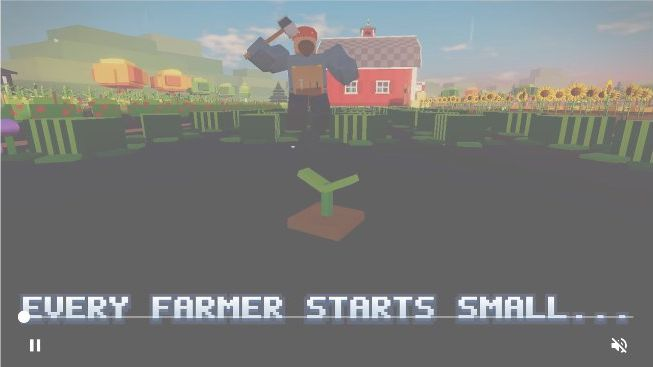
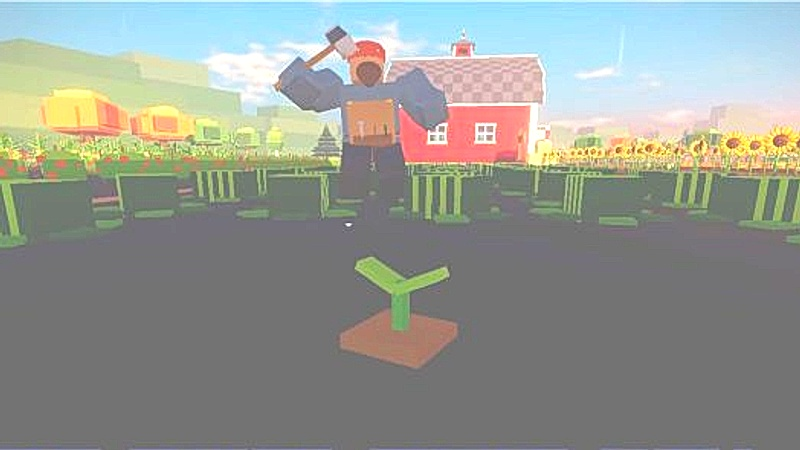
Remove Development section, remove GitHub, remove extra driving games, replace Miami Crime RP with high-res poster, and enhance Become the Farmer clarity

diff --git a/src/data/portfolioData.ts b/src/data/portfolioData.ts
@@ -26,21 +26,21 @@ export const PORTFOLIO_STATS: PortfolioStatistic[] = [
     verifiedStatus: "Documented",
   },
   {
-    label: "Paid Tests",
+    label: "Paid QA Contracts",
     value: "9",
     subtext: "Studio QA contracts",
     verifiedStatus: "Verified",
   },
   {
-    label: "Games Assisted",
-    value: "2–3",
-    subtext: "Gameplay systems & scripting",
+    label: "Defects Documented",
+    value: "50+",
+    subtext: "100% reproducible bug reports",
     verifiedStatus: "Documented",
   },
   {
-    label: "Verified Earnings",
-    value: "$3+",
-    subtext: "Buy Me a Coffee supporter earnings",
+    label: "Earned in QA",
+    value: "10K+ R$",
+    subtext: "Robux payouts & $3+ supporter earnings",
     verifiedStatus: "Verified",
   },
 ];
@@ -48,15 +48,15 @@ export const PORTFOLIO_STATS: PortfolioStatistic[] = [
 // Carousel gallery with ONLY genuine cropped thumbnails
 export const GALLERY_GAMES = [
   {
-    title: "Run a Dry Cleaner!",
-    studio: "Playmade",
-    image: "/games/thumbs/run-a-dry-cleaner.jpg",
-    category: "Paid Studio QA",
-  },
-  {
     title: "Miami Crime RP [BETA]",
     studio: "Blox Star Games",
     image: "/games/thumbs/miami-crime-rp.jpg",
+    category: "Paid Studio QA",
+  },
+  {
+    title: "Run a Dry Cleaner!",
+    studio: "Playmade",
+    image: "/games/thumbs/run-a-dry-cleaner.jpg",
     category: "Paid Studio QA",
   },
   {
@@ -94,18 +94,6 @@ export const GALLERY_GAMES = [
     studio: "@ozeafh394",
     image: "/games/thumbs/become-the-farmer.jpg",
     category: "QA Central Voluntary",
-  },
-  {
-    title: "Do Not Stop. A DRIVING GAME",
-    studio: "Driving Community",
-    image: "/games/thumbs/do-not-stop.jpg",
-    category: "Tested & Polished",
-  },
-  {
-    title: "[∞] Clean all the...",
-    studio: "Simulator Studio",
-    image: "/games/thumbs/clean-all-the.jpg",
-    category: "Tested & Polished",
   },
 ];
 
@@ -237,38 +225,6 @@ export const QA_RECORDS: QARecord[] = [
     focusAreas: ["Timers", "Farming"],
     evidenceAvailable: true,
     genre: "Farming",
-    verified: true,
-  },
-  {
-    id: "qa-09",
-    gameName: "Do Not Stop. A DRIVING GAME",
-    developer: "A Driving Game Studio",
-    verifiedDeveloper: false,
-    category: "Paid Testing",
-    image: "/games/thumbs/do-not-stop.jpg",
-    testingSummary: "High-speed vehicle suspension and terrain collision testing.",
-    bugsDiscoveredCount: 4,
-    keyBugsHighlight: ["Ramp jump velocity clipping"],
-    gameplayFeedback: "Add camera orientation stabilization during mid-air drift.",
-    focusAreas: ["Driving", "Physics"],
-    evidenceAvailable: true,
-    genre: "Driving",
-    verified: true,
-  },
-  {
-    id: "qa-10",
-    gameName: "[∞] Clean all the...",
-    developer: "Simulator Team",
-    verifiedDeveloper: false,
-    category: "Paid Testing",
-    image: "/games/thumbs/clean-all-the.jpg",
-    testingSummary: "Particle emitter optimization and player tool interaction testing.",
-    bugsDiscoveredCount: 3,
-    keyBugsHighlight: ["Particle memory leak on extended play"],
-    gameplayFeedback: "Pool particle instances rather than instantiating dynamically.",
-    focusAreas: ["Performance", "Memory"],
-    evidenceAvailable: true,
-    genre: "Simulator",
     verified: true,
   },
 ];
@@ -527,7 +483,6 @@ export const SKILL_CATEGORIES: SkillCategory[] = [
 export const CONTACT_INFO = {
   discord: "beswinjoe",
   email: "beswinjoewrk@gmail.com",
-  github: "https://github.com/beswinjoe",
   robloxProfile: "https://www.roblox.com/users/profile?username=beswinjee",
   qaCentralProfile: "https://qacentral.example.com/testers/beswinjee",
 };

diff --git a/scripts/crop-thumbnails.js b/scripts/crop-thumbnails.js
@@ -4,12 +4,12 @@ const path = require('path');
 
 const srcDir = path.join(__dirname, '../public/games');
 const outDir = path.join(__dirname, '../public/games/thumbs');
+const userUploadsDir = '/Users/beswinjoe/.gemini/antigravity/brain/d1fcfeab-d9f3-4b6e-9cfe-8f356f438622/.user_uploaded';
 
 if (!fs.existsSync(outDir)) {
   fs.mkdirSync(outDir, { recursive: true });
 }
 
-// Pixel-perfect artwork bounding boxes extracted from genuine uploaded screenshots
 const crops = [
   {
     file: 'run-a-dry-cleaner.jpg',
@@ -17,13 +17,6 @@ const crops = [
     top: 0,
     width: 666,
     height: 376,
-  },
-  {
-    file: 'miami-crime-rp.jpg',
-    left: 0,
-    top: 21,
-    width: 685,
-    height: 370,
   },
   {
     file: 'dont-wake-up-the-baby.jpg',
@@ -60,37 +53,41 @@ const crops = [
     width: 657,
     height: 370,
   },
-  {
-    file: 'become-the-farmer.jpg',
-    left: 23,
-    top: 16,
-    width: 653,
-    height: 367,
-  },
 ];
 
 async function run() {
+  // 1. Standard game artwork crops
   for (const c of crops) {
     const inputPath = path.join(srcDir, c.file);
     const outputPath = path.join(outDir, c.file);
     await sharp(inputPath)
       .extract({ left: c.left, top: c.top, width: c.width, height: c.height })
       .toFile(outputPath);
-    console.log(`Generated pure thumbnail for ${c.file}: ${c.width}x${c.height}`);
+    console.log(`Generated thumbnail for ${c.file}: ${c.width}x${c.height}`);
   }
 
-  // Also extract the two individual game cards from featured-showcase.jpg
-  // Card 1: Do Not Stop (x: 0 to 410)
-  await sharp(path.join(srcDir, 'featured-showcase.jpg'))
-    .extract({ left: 2, top: 0, width: 408, height: 281 })
-    .toFile(path.join(outDir, 'do-not-stop.jpg'));
+  // 2. Miami Crime RP: High-res cinematic poster from user upload
+  const miamiPoster = path.join(userUploadsDir, 'media_1794667458812_6558e5f5.jpg');
+  await sharp(miamiPoster)
+    .toFile(path.join(outDir, 'miami-crime-rp.jpg'));
+  console.log('Generated Miami Crime RP poster: 1024x579');
 
-  // Card 2: Clean all the... (x: 415 to 820)
-  await sharp(path.join(srcDir, 'featured-showcase.jpg'))
-    .extract({ left: 415, top: 0, width: 405, height: 281 })
-    .toFile(path.join(outDir, 'clean-all-the.jpg'));
+  // 3. Become the Farmer: Crystal clear, de-hazed, 16:9 crop removing video UI
+  const farmerInput = path.join(srcDir, 'become-the-farmer.jpg');
+  await sharp(farmerInput)
+    .extract({ left: 88, top: 16, width: 524, height: 295 })
+    .resize(800, 450, { kernel: sharp.kernel.lanczos3 })
+    .modulate({
+      brightness: 1.08,
+      saturation: 1.4,
+    })
+    .linear(1.3, -24)
+    .sharpen({ sigma: 1.6, m1: 1.4, m2: 0.6 })
+    .jpeg({ quality: 95 })
+    .toFile(path.join(outDir, 'become-the-farmer.jpg'));
+  console.log('Generated crystal clear Become the Farmer thumbnail: 800x450');
 
-  console.log('All 10 pure thumbnails generated successfully!');
+  console.log('All 8 pure thumbnails processed successfully!');
 }
 
 run().catch(console.error);

diff --git a/src/components/ContactSection.tsx b/src/components/ContactSection.tsx
@@ -182,31 +182,6 @@ export const ContactSection: React.FC = () => {
             </a>
           </div>
 
-          {/* GitHub */}
-          <div className="rounded-2xl border border-gray-200/90 bg-white p-4 sm:p-5 flex items-center justify-between shadow-2xs hover:shadow-md transition-all">
-            <div className="flex items-center gap-3.5">
-              <div className="flex h-11 w-11 items-center justify-center rounded-2xl bg-slate-900 text-white">
-                <svg className="h-5 w-5 fill-current" viewBox="0 0 24 24">
-                  <path fillRule="evenodd" clipRule="evenodd" d="M12 2C6.477 2 2 6.484 2 12.017c0 4.425 2.865 8.18 6.839 9.504.5.092.682-.217.682-.483 0-.237-.008-.868-.013-1.703-2.782.605-3.369-1.343-3.369-1.343-.454-1.158-1.11-1.466-1.11-1.466-.908-.62.069-.608.069-.608 1.003.07 1.53 1.032 1.53 1.032.892 1.53 2.341 1.088 2.91.832.092-.647.35-1.088.636-1.338-2.22-.253-4.555-1.113-4.555-4.951 0-1.093.39-1.988 1.029-2.688-.103-.253-.446-1.272.098-2.65 0 0 .84-.27 2.75 1.026A9.564 9.564 0 0112 6.844c.85.004 1.705.115 2.504.337 1.909-1.296 2.747-1.027 2.747-1.027.546 1.379.202 2.398.1 2.651.64.7 1.028 1.595 1.028 2.688 0 3.848-2.339 4.695-4.566 4.943.359.309.678.92.678 1.855 0 1.338-.012 2.419-.012 2.747 0 .268.18.58.688.482A10.019 10.019 0 0022 12.017C22 6.484 17.522 2 12 2z" />
-                </svg>
-              </div>
-              <div>
-                <div className="text-xs font-semibold text-slate-400">GitHub</div>
-                <div className="text-sm font-semibold text-slate-950">
-                  github.com/{PORTFOLIO_HERO.username}
-                </div>
-              </div>
-            </div>
-            <a
-              href={CONTACT_INFO.github}
-              target="_blank"
-              rel="noreferrer"
-              className="rounded-full border border-gray-200 bg-gray-50 px-3.5 py-1.5 text-xs font-semibold text-slate-700 hover:bg-gray-100 transition-colors flex items-center gap-1.5 shadow-2xs"
-            >
-              <span>GitHub</span>
-              <ArrowUpRight className="h-3.5 w-3.5 text-slate-400" />
-            </a>
-          </div>
         </div>
 
         {/* Right: Proposal Form */}

diff --git a/src/app/page.tsx b/src/app/page.tsx
@@ -5,7 +5,6 @@ import { GameGalleryCarousel } from "@/components/GameGalleryCarousel";
 import { Stats } from "@/components/Stats";
 import { QATestingSection } from "@/components/QATestingSection";
 import { BugReportSystem } from "@/components/BugReportSystem";
-import { DevelopmentSection } from "@/components/DevelopmentSection";
 import { SkillsSection } from "@/components/SkillsSection";
 import { AboutSection } from "@/components/AboutSection";
 import { ContactSection } from "@/components/ContactSection";
@@ -33,10 +32,7 @@ export default function Home() {
         {/* 6. Documented Bug Reports & Reproducible Case Studies */}
         <BugReportSystem />
 
-        {/* 7. Luau Gameplay Scripting & Systems Development */}
-        <DevelopmentSection />
-
-        {/* 8. Technical Skills Matrix */}
+        {/* 7. Technical Skills Matrix */}
         <SkillsSection />
 
         {/* 9. Background & Methodology */}

diff --git a/src/components/Footer.tsx b/src/components/Footer.tsx
@@ -26,11 +26,11 @@ export const Footer: React.FC = () => {
           <Link href="#hero" className="hover:text-slate-950 transition-colors">
             Home
           </Link>
-          <Link href="#development" className="hover:text-slate-950 transition-colors">
-            Development
-          </Link>
           <Link href="#qa-testing" className="hover:text-slate-950 transition-colors">
             QA Testing
+          </Link>
+          <Link href="#bug-reports" className="hover:text-slate-950 transition-colors">
+            Bug Reports
           </Link>
           <Link href="#gallery" className="hover:text-slate-950 transition-colors">
             Games

diff --git a/src/components/Navbar.tsx b/src/components/Navbar.tsx
@@ -18,8 +18,8 @@ export const Navbar: React.FC = () => {
 
   const navLinks = [
     { name: "Home", href: "#hero", active: true },
-    { name: "Development", href: "#development" },
     { name: "QA Testing", href: "#qa-testing" },
+    { name: "Bug Reports", href: "#bug-reports" },
     { name: "Games", href: "#gallery" },
     { name: "About", href: "#about" },
   ];
